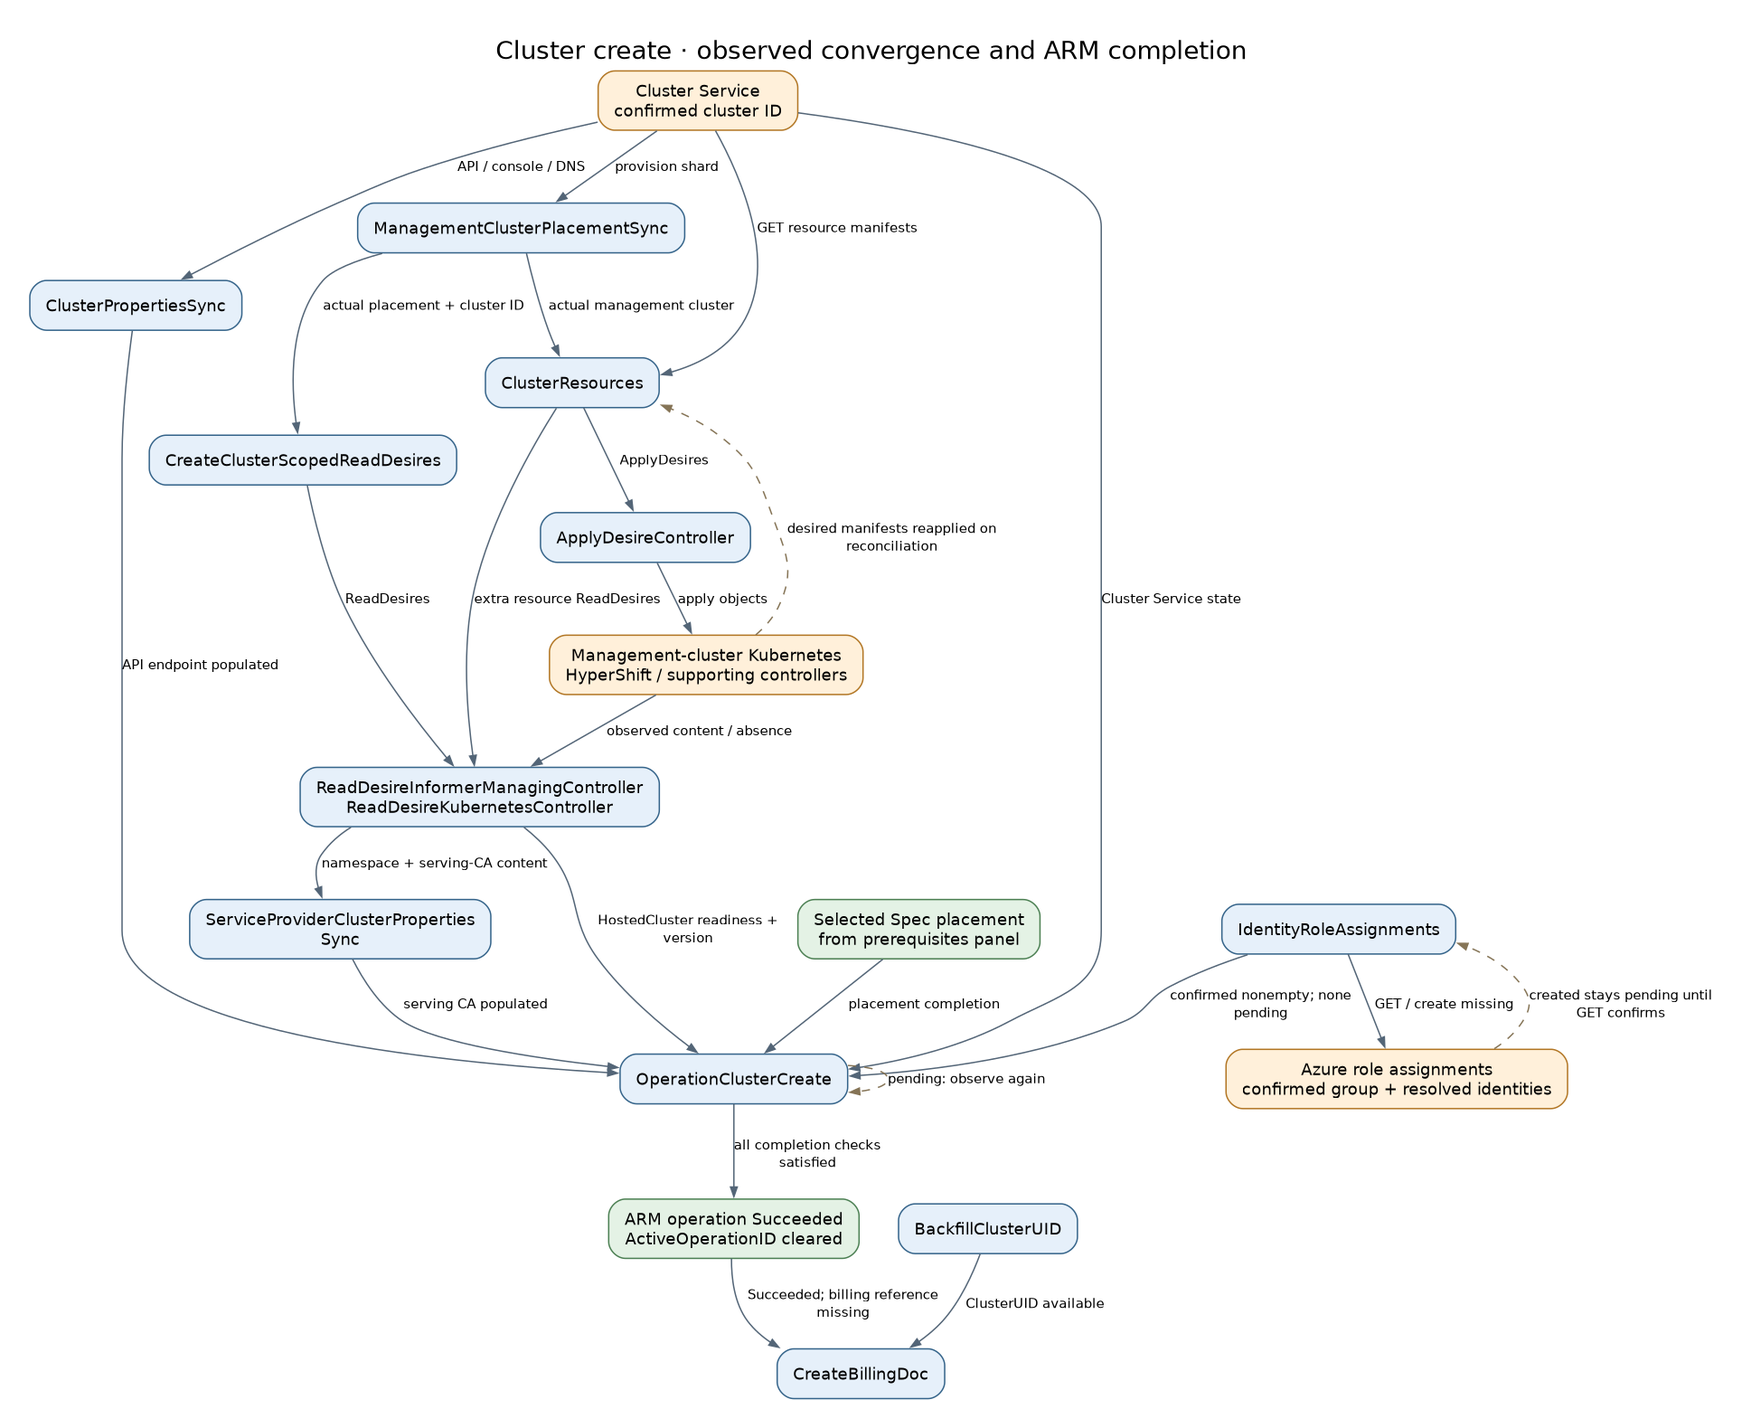
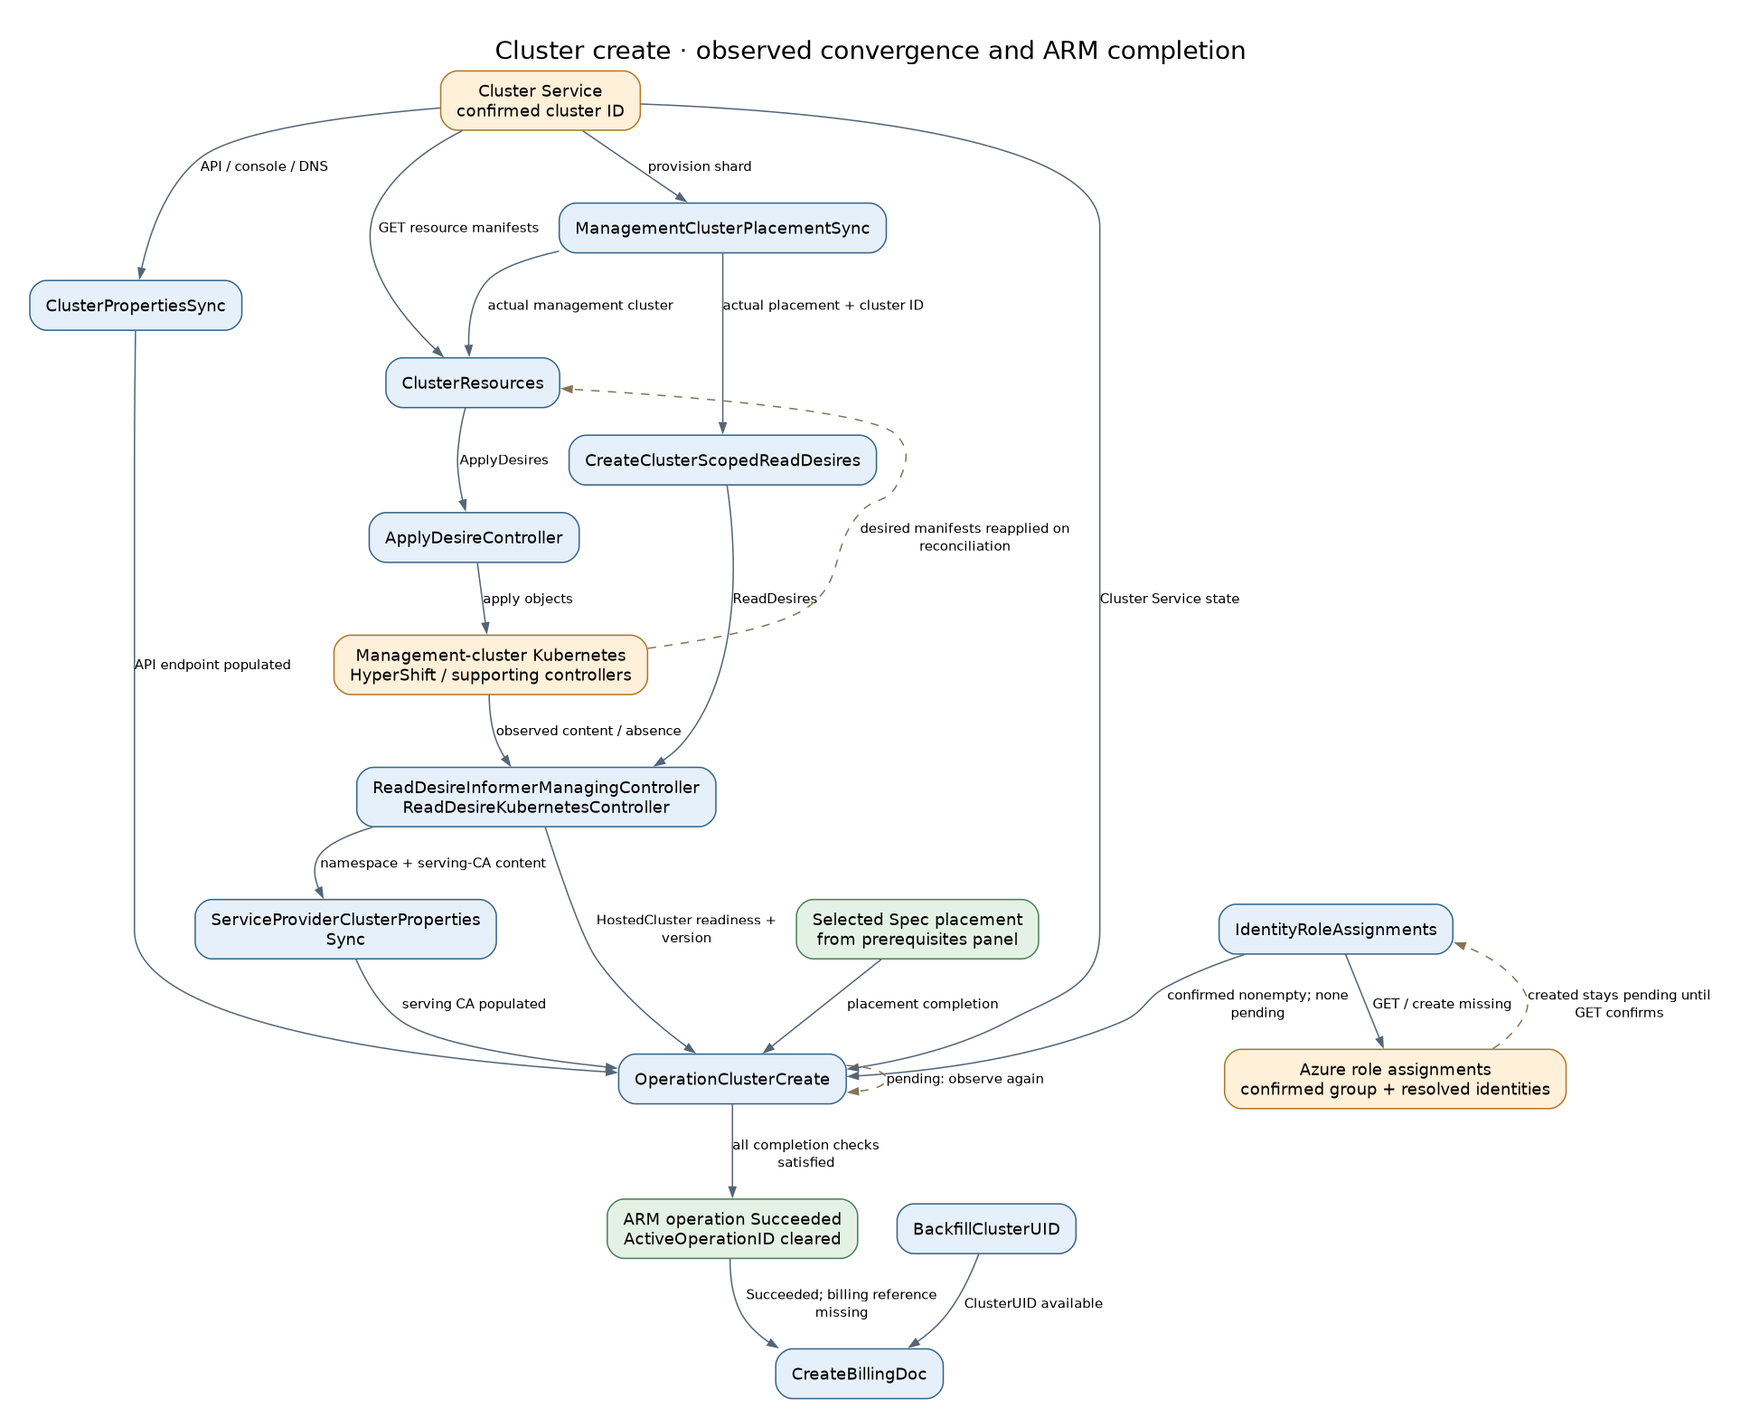
docs: regenerate controller reference from main

diff --git a/docs/cosmos-data-flow.md b/docs/cosmos-data-flow.md
@@ -3,9 +3,7 @@
 This reference covers every concrete controller in the current checkout: backend,
 fleet, kube-applier, management-agent, sessiongate, and shared informer management.
 It maps their inputs, decisions and effects across Cosmos DB, Azure, Cluster Service
-and Kubernetes. Source baseline: `ba139836b378399bcf60654a0df4afc062bb5ecd`, based on main
-`07f480f53ea18278568355cbdd3fc63f114be047` plus this branch's ordered
-cluster-resource teardown and observation changes.
+and Kubernetes. Source baseline: `7997fa34a240560a792c3dd410396cd7651a9f39`.
 
 The generation instructions are maintained in [controller-data-flow.md](prompts/controller-data-flow.md).
 The historical filename is retained for existing links.
@@ -90,6 +88,13 @@ sum by (source_kind, source) (
 ---
 
 ## 1. Frontend Endpoint Writes
+
+Request-body merging and response helpers live under
+[coreapihelpers](../internal/apihelpers/coreapihelpers/); resource-ID and Cosmos
+metadata helpers live under [metadataapihelpers](../internal/apihelpers/metadataapihelpers/),
+[fleetapihelpers](../internal/apihelpers/fleetapihelpers/) and
+[kubeapplierapihelpers](../internal/apihelpers/kubeapplierapihelpers/).
+The helper-package move does not change endpoint ownership or transactional boundaries.
 
 ### PUT Subscription
 
@@ -431,9 +436,9 @@ After Cluster Service placement is visible, maps its provision shard to the flee
 
 [Source](../backend/pkg/controllers/clusterresources/cluster_resources_controller.go) · **Trigger:** Cluster; 30s.
 
-Requires observed `Status.ManagementClusterResourceID`; live reconciliation also requires `ClusterServiceID`. Fetches Cluster Service manifests and reconciles tagged `ApplyDesire` documents for namespaces, HostedCluster, node pools, SWIFT networking and supporting objects. Skips absent/deleting node pools; stale intents use an explicit Delete request and wait for confirmed deletion before document removal. Also ensures tagged `ReadDesire` documents for NodePools, PodNetworkInstances, PodNetworks and both namespaces so their state/finalizers can be inspected.
+Requires observed `Status.ManagementClusterResourceID`; live reconciliation also requires `ClusterServiceID`. Fetches Cluster Service manifests and reconciles tagged `ApplyDesire` documents for namespaces, HostedCluster, node pools, SWIFT networking and supporting objects. Skips absent/deleting node pools; stale intents during live reconciliation use an explicit Delete request and wait for confirmed deletion before document removal.
 
-On cluster deletion, stops fetching manifests and runs the [ordered teardown chain](../backend/pkg/controllers/clusterresources/apply_desire_removal_chain.go): drop namespace-cascade-covered configuration intents; delete/wait for NodePools; then HostedCluster; PodNetworkInstance; cluster-scoped PodNetwork; finally both namespaces. Each waited step converts its ApplyDesires to `Spec.Type=Delete` and removes their documents after kube-applier confirms success. Only the first step drops intent without deleting the object, keeping configuration available during finalization. Cleans up its tagged ReadDesires after the chain drains. Unknown desire names are logged and left untouched. Cluster Service deletion proceeds concurrently; it is not gated on this chain.
+On cluster deletion, stops fetching manifests and removes all its tagged ApplyDesire documents directly. This stops kube-applier reconciliation but does not delete the Kubernetes objects. Cluster Service delete dispatch waits for those intents to disappear before requesting external teardown. ClusterResources does not create ReadDesires; cluster/node-pool read controllers supply the mirrored observations.
 
 #### CreateClusterScopedReadDesires
 
@@ -507,7 +512,7 @@ Observes encryption-key rotation and backup state, creates Velero Backup ApplyDe
 
 [Source](../backend/pkg/controllers/cluster/deletion/cluster_cluster_service_delete_dispatch_controller.go) · **Trigger:** Cluster; 1m.
 
-Requires `UsesNewClusterDeletionApproach`, deletion intent and no dispatch timestamp. Calls Cluster Service DELETE and stamps `ClusterServiceDeletionTimestamp`, independently of ClusterResources teardown. A missing ID or external 404 waits up to 120s from first observed deletion to cover creation races; this is not a dispatch interval.
+Requires `UsesNewClusterDeletionApproach`, deletion intent and no dispatch timestamp. Waits for all ClusterResources-tagged ApplyDesires to disappear, then calls Cluster Service DELETE and stamps `ClusterServiceDeletionTimestamp`. A missing ID or external 404 waits up to 120s from first observed deletion after the ApplyDesire gate passes to cover creation races; this is not a dispatch interval.
 
 #### ClusterDeletionClusterServiceIDClearer
 
@@ -545,7 +550,7 @@ Observes dispatched configuration and completion; For the matching nonterminal o
 
 [Source](../backend/pkg/controllers/cluster/operations/operation_cluster_delete.go) · **Trigger:** Active operation; 10s.
 
-Under the new deletion path, waits for the resource document to disappear; retains legacy deletion handling. Timeout diagnostics include Cluster Service state, mirrored HostedCluster state and remaining ClusterResources-owned ApplyDesires grouped by teardown stage. This diagnostic read does not itself delete resources or add a completion gate. For the matching nonterminal operation, writes status/error/transition time and ARM provisioning state, clears the active-operation reference on terminal state, and sends the async notification.
+Under the new deletion path, waits for the resource document to disappear; retains legacy deletion handling. Timeout diagnostics combine deletion-dispatch progress, live Cluster Service state, remaining descendant resources and mirrored HostedCluster state. For the matching nonterminal operation, writes status/error/transition time and ARM provisioning state, clears the active-operation reference on terminal state, and sends the async notification.
 
 #### ClusterDegradedAggregator
 
@@ -1117,13 +1122,17 @@ For nodes lacking the extended capacity, resolves VMSS NIC information from Azur
 
 [Source](../mgmt-agent/pkg/controller/nodehealth/controller.go) · **Trigger:** Node/Pod/Event informers; 30s sweep.
 
-Runs configured node-health detectors and labels/unlabels wedged SWIFTv2 nodes, with metrics. Hot configuration controls detectors; disabled by default. No Cosmos domain write.
+Runs the compiled detector registry on cached Node/Pod/Event evidence for SWIFTv2 nodes. Ready nodes use the `swift-vf-teardown` and [cni-plugin-not-initialized](../mgmt-agent/pkg/controller/nodehealth/detectors/cni_plugin_not_initialized.go) pod detectors; non-Ready nodes use `never-ready`. The CNI detector requires at least three distinct nonterminating, nonterminal pods, each with `PodReadyToStartContainers=False` for at least 20 minutes, correlated by UID with matching `NetworkNotReady` events in the last 20 minutes. A recent sandbox success from any pod prevents it firing; event repetition alone does not increase the pod count.
+
+Labels/annotates wedged nodes and emits events/metrics; removes labels on healthy/not-applicable verdicts and leaves them unchanged when evidence is Unknown. It does not cordon, evict or delete nodes. The watched [configuration](../mgmt-agent/pkg/controller/nodehealth/config.go) controls only `enabled` (default false); detector definitions and thresholds are compiled, not runtime-configurable. No Cosmos domain write.
 
 #### capacity-reporting
 
 [Source](../mgmt-agent/pkg/controller/capacityreporting/controller.go) · **Trigger:** Periodic; 30s, 25s timeout.
 
-Reads nodes, pods, pod metrics and HCP readiness, creates the singleton CapacityReport and updates allocatable/request/usage and ready/not-ready status for fleet consumption.
+After informer sync, creates the singleton CapacityReport `cluster`. Every pass reads worker nodes, HCPs, namespace mappings, nonterminal pod requests and pod metrics, then server-side applies status: per-SKU allocatable capacity, requested/used resources, ready/not-ready HCP resource IDs, `LastReportedAt` and `ReportCurrent`. Collection failure retains the last payload/timestamp and writes `ReportCurrent=False`; successful collection writes True. Kube-applier mirrors the report for fleet consumers.
+
+Request and usage aggregation always includes CPU, memory and `aro.openshift.io/swift-nic` quantities, with zero values when no matching workload exists. This stable nonempty map avoids null status writes during server-side apply. The [CRD](../mgmt-agent/deploy/templates/capacityreport-crd.yaml) makes `status.hostedControlPlanes` optional and atomic: the sole writer replaces the complete ready/not-ready grouping on each apply, including transitions to empty lists.
 
 #### KSMHCPController
 
@@ -1177,9 +1186,8 @@ The DataplaneController registers ready session credentials, owner and backend A
 | Cluster Service provision shards / Maestro consumers | Fleet registration controllers ensure external registrations | Fleet management-cluster conditions record readiness for placement. Maestro/work-agent and HyperShift are external components, not repository controllers in this catalog. |
 | Kubernetes desired manifests | [ApplyDesireController](#applydesirecontroller) applies/deletes objects | Backend `ClusterResources`, backup and credential controllers write intent documents. An ApplyDesire **Delete request** executes a Kubernetes deletion; removal of the Cosmos intent alone does not. |
 | Shared-ingress router Service | External management-cluster provisioning creates the Service/load balancer | [EnsureSharedIngressReadDesireController](#ensuresharedingressreaddesirecontroller) creates observation intent; [SharedIngressReportingController](#sharedingressreportingcontroller) mirrors IPs and availability into Fleet. Admin management-cluster responses expose those IPs; these controllers do not create ingress resources. |
-| Ordered cluster Kubernetes teardown | [ApplyDesireController](#applydesirecontroller) issues Delete requests; HyperShift/CAPI/SWIFT finalizers release external resources | [ClusterResources](#clusterresources) sequences NodePools, HostedCluster, PodNetworkInstance, PodNetwork and namespaces. Namespace garbage collection reclaims inert configuration whose intents were dropped first. |
 | Kubernetes observation | [ReadDesireKubernetesController](#readdesirekubernetescontroller) reads targets | Writes mirrored Cosmos status; never provisions the observed target. The manager and union controller maintain the watches. |
-| Kubernetes CapacityReport, Node labels/capacity, monitoring objects | Management-agent controllers | These are direct Kubernetes writes, with fleet consuming mirrored capacity later. |
+| Kubernetes CapacityReport, Node labels/capacity, monitoring objects | Management-agent controllers | Direct Kubernetes writes; fleet consumes mirrored capacity. [node-health](#node-health) labels/annotates detected SWIFTv2 failures and emits events; mitigation is outside this controller. [capacity-reporting](#capacity-reporting) preserves zero resource quantities and atomically replaces the HCP readiness grouping. |
 | Kubernetes Session/CSR/approval/credential secrets | [SessionControlPlaneController](#sessioncontrolplanecontroller) | Direct sessiongate control-plane writes; the dataplane controller maintains only its proxy registry. |
 
 ## 3. Resource Lifecycle Digraphs
@@ -1199,7 +1207,8 @@ The delete views describe resources using `UsesNewClusterDeletionApproach`,
 operation paths still exist. Pending operations keep reconciling; errors retry,
 and operation-specific failure checks can produce Failed instead of Succeeded.
 The 120-second missing-ID/404 creation-race wait in delete dispatchers is distinct
-from waiting for external teardown. Graphs show the usual successful path and
+from waiting for external teardown; cluster dispatch starts tracking that wait only
+after its ClusterResources ApplyDesire gate passes. Graphs show the usual successful path and
 important feedback, not every failure branch.
 
 Render all PNGs with Graphviz installed:
@@ -1262,17 +1271,7 @@ The [operation poller](../backend/pkg/controllers/cluster/operations/operation_c
 
 ![Cluster delete controller digraph](diagrams/controller-flows/cluster-delete.png)
 
-[Delete dispatch](../backend/pkg/controllers/cluster/deletion/cluster_cluster_service_delete_dispatch_controller.go) runs concurrently with ClusterResources teardown; there is no ApplyDesire precondition on the Cluster Service DELETE. [Child cleanup](../backend/pkg/controllers/cluster/deletion/cluster_child_resources_cleanup_controller.go) waits for resource and credential children, and preserves owned ApplyDesires for their controllers and removes provider state only after managed-resource-group references, Maestro readonly bundles and cluster-scoped desires clear. [Managed-resource-group reconciliation](../backend/pkg/controllers/cluster/azureresources/managed_resource_group_controller.go) only observes deletion; it does not issue it. The optional orphan-group cleaner is a background repair path, not a prerequisite for typical deletion.
-
-### Cluster delete: ordered resource teardown
-
-[Full PNG](diagrams/controller-flows/cluster-resource-teardown.png) · [Graphviz source](diagrams/controller-flows/cluster-resource-teardown.dot)
-
-![Cluster delete: ordered resource teardown](diagrams/controller-flows/cluster-resource-teardown.png)
-
-The left column shows steps inside [ClusterResources](../backend/pkg/controllers/clusterresources/apply_desire_removal_chain.go), not additional controllers. The right column expands the common [delete-and-confirm helper](../backend/pkg/kubeapplierhelpers/desire_deletion.go) used by every waited step. A pending or failed step blocks all later steps. The first step drops only [cascade-covered configuration intents](../backend/pkg/controllers/clusterresources/apply_desire_removal_steps.go); namespace deletion eventually removes those objects. PodNetwork is cluster-scoped and must be deleted explicitly. Unknown owned desire names are logged and left untouched.
-
-ClusterResources also creates ReadDesires for NodePools, both namespaces and SWIFT objects during normal reconciliation; these make stuck objects inspectable but are not the deletion-success gate. The existing HostedCluster read remains supplied by CreateClusterScopedReadDesires. Its owned observation intents are removed when the ordered chain finishes; generic child cleanup can also sweep eligible reads after its own gates. [OperationClusterDelete](../backend/pkg/controllers/cluster/operations/operation_cluster_delete.go) reports remaining ApplyDesires in timeout diagnostics while final ARM success still depends on cluster-document disappearance.
+[ClusterResources](../backend/pkg/controllers/clusterresources/cluster_resources_controller.go) first drops its tagged ApplyDesire documents, stopping their reconciliation without deleting their Kubernetes targets. [Delete dispatch](../backend/pkg/controllers/cluster/deletion/cluster_cluster_service_delete_dispatch_controller.go) waits for that intent cleanup before calling Cluster Service DELETE. External components then tear down Kubernetes and Azure resources. [Child cleanup](../backend/pkg/controllers/cluster/deletion/cluster_child_resources_cleanup_controller.go) waits for resource and credential children, and preserves owned ApplyDesires for their controllers and removes provider state only after managed-resource-group references, Maestro readonly bundles and cluster-scoped desires clear. [Managed-resource-group reconciliation](../backend/pkg/controllers/cluster/azureresources/managed_resource_group_controller.go) only observes deletion; it does not issue it. The optional orphan-group cleaner is a background repair path, not a prerequisite for typical deletion.
 
 ### Node pool create
 
@@ -1363,8 +1362,8 @@ actors and use optimistic concurrency; retries must re-read on conflict.
 | `Status.Validations` | Each registered validation writes its own condition in the service-provider cluster or node pool; requirements aggregators consume the set. |
 | Cluster `Status.HostedClusterNamespace`, `ControlPlaneNamespace`, `ServingCABundle` | [ServiceProviderClusterPropertiesSync](#serviceproviderclusterpropertiessync) fills these from mirrored reads. Credentials and create-operation completion wait on them. |
 | Cluster `Spec.BackupState` | Admin backup PATCH writes Enabled/Paused; [BackupSchedule](#backupschedule) reconciles Velero intent. Mirrored Kubernetes status reports results separately. |
-| `ApplyDesire` / `ReadDesire` | Backend/fleet writers own desired content/targets; kube-applier owns execution/observation status. Credential cleanup and ordered ClusterResources teardown change ApplyDesire type to Delete and wait; only cascade-covered configuration intents are dropped without deleting their Kubernetes objects. |
-| Kubernetes CapacityReport | Management-agent [capacity-reporting](#capacity-reporting) writes status; kube-applier mirrors it; fleet updates scheduling and resource-requirement documents. This observation chain feeds later placement decisions. |
+| `ApplyDesire` / `ReadDesire` | Backend/fleet writers own desired content/targets; kube-applier owns execution/observation status. Credential cleanup and stale-resource cleanup during live ClusterResources reconciliation use Delete intents and wait. During whole-cluster deletion, ClusterResources drops its intent documents directly; external components own Kubernetes teardown. |
+| Kubernetes CapacityReport | Management-agent [capacity-reporting](#capacity-reporting) server-side applies status, preserving zero CPU/memory/SWIFT-NIC quantities and replacing `hostedControlPlanes` atomically. Kube-applier mirrors it; fleet updates scheduling and resource-requirement documents only from current observations. Collection failures retain the previous payload while setting ReportCurrent=False. |
 
 ### Credential and controller bookkeeping
 

diff --git a/docs/prompts/controller-data-flow.md b/docs/prompts/controller-data-flow.md
@@ -37,6 +37,7 @@ Useful entry points (discover new ones rather than treating this as a closed lis
 - `internal/controllerutils/`, `backend/pkg/utils/controllerutils/`,
   `internal/database/unioninformers/`
 - `internal/api/{coreapi,fleetapi,kubeapplierapi,metadataapi}/`,
+  `internal/apihelpers/{coreapihelpers,fleetapihelpers,kubeapplierapihelpers,metadataapihelpers}/`,
   `internal/database/{cosmosstorage,informers,listers}/`
 - Azure client interfaces, OCM/Cluster Service adapters, desire builders,
   validation implementations, and lifecycle tests called by these controllers.
@@ -91,7 +92,7 @@ Produce create, update, and delete views for typical **cluster**, **node pool**,
 and **external auth** instances (nine focused diagrams). Add focused views for
 credentials, capacity/placement, ordered teardown, or other flows when they improve
 understanding. Verify placement failure/deadline semantics, fleet readiness inputs,
-and concurrent delete dispatch against the current source.
+and delete-dispatch prerequisites against the current source.
 
 - These are directed graphs, **not necessarily DAGs**. Preserve real reconcile,
   retry, observation, and feedback cycles rather than inventing a linear pipeline.
